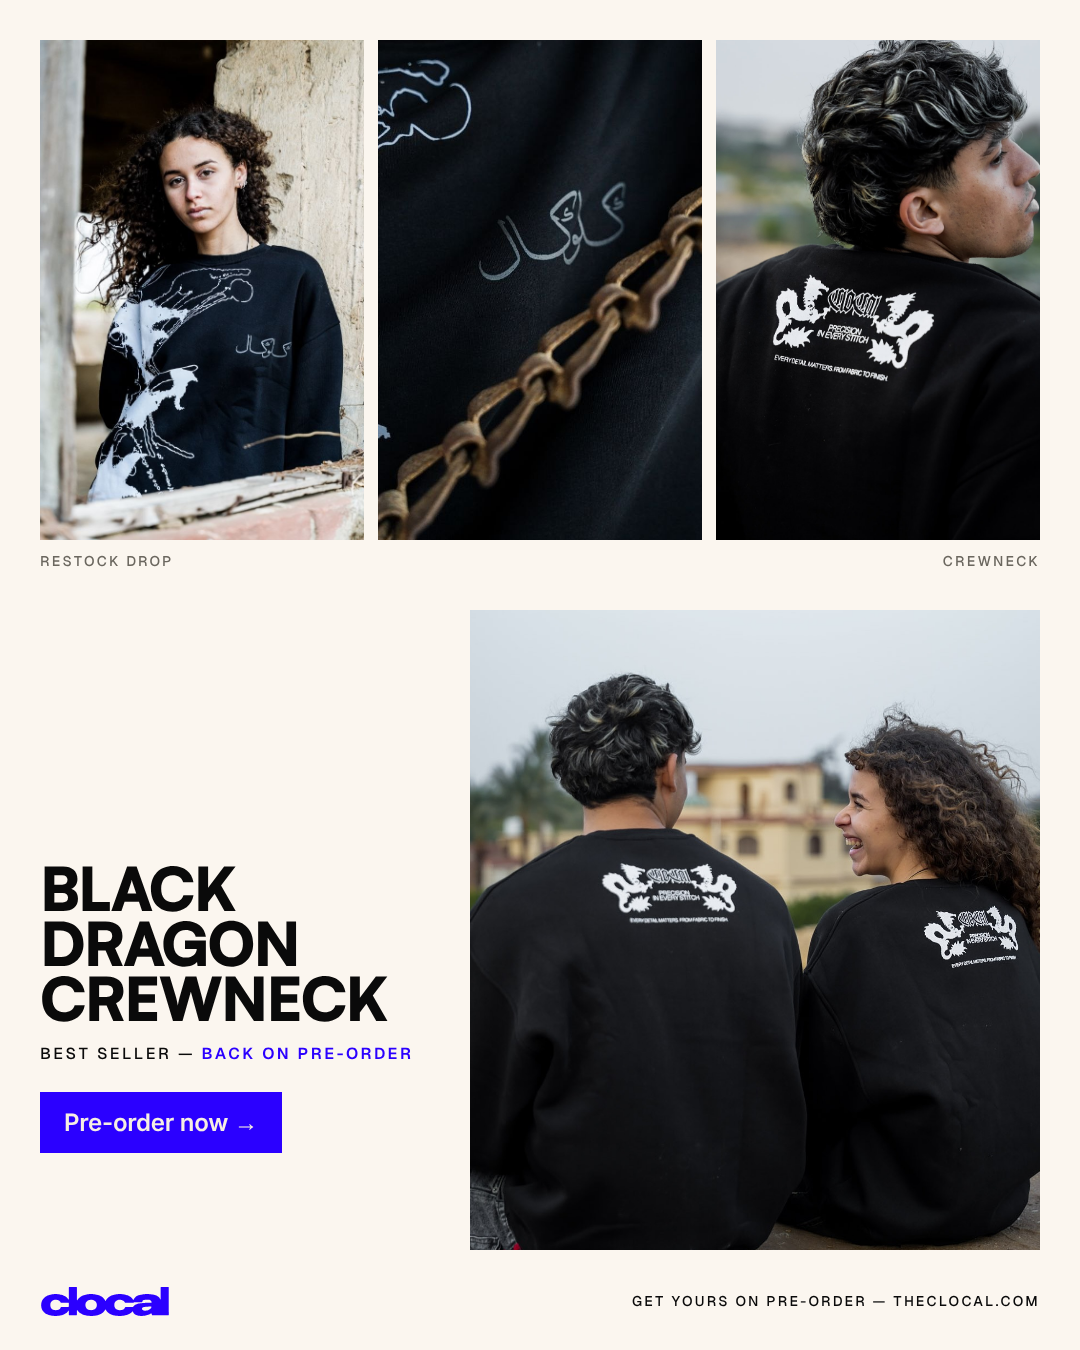
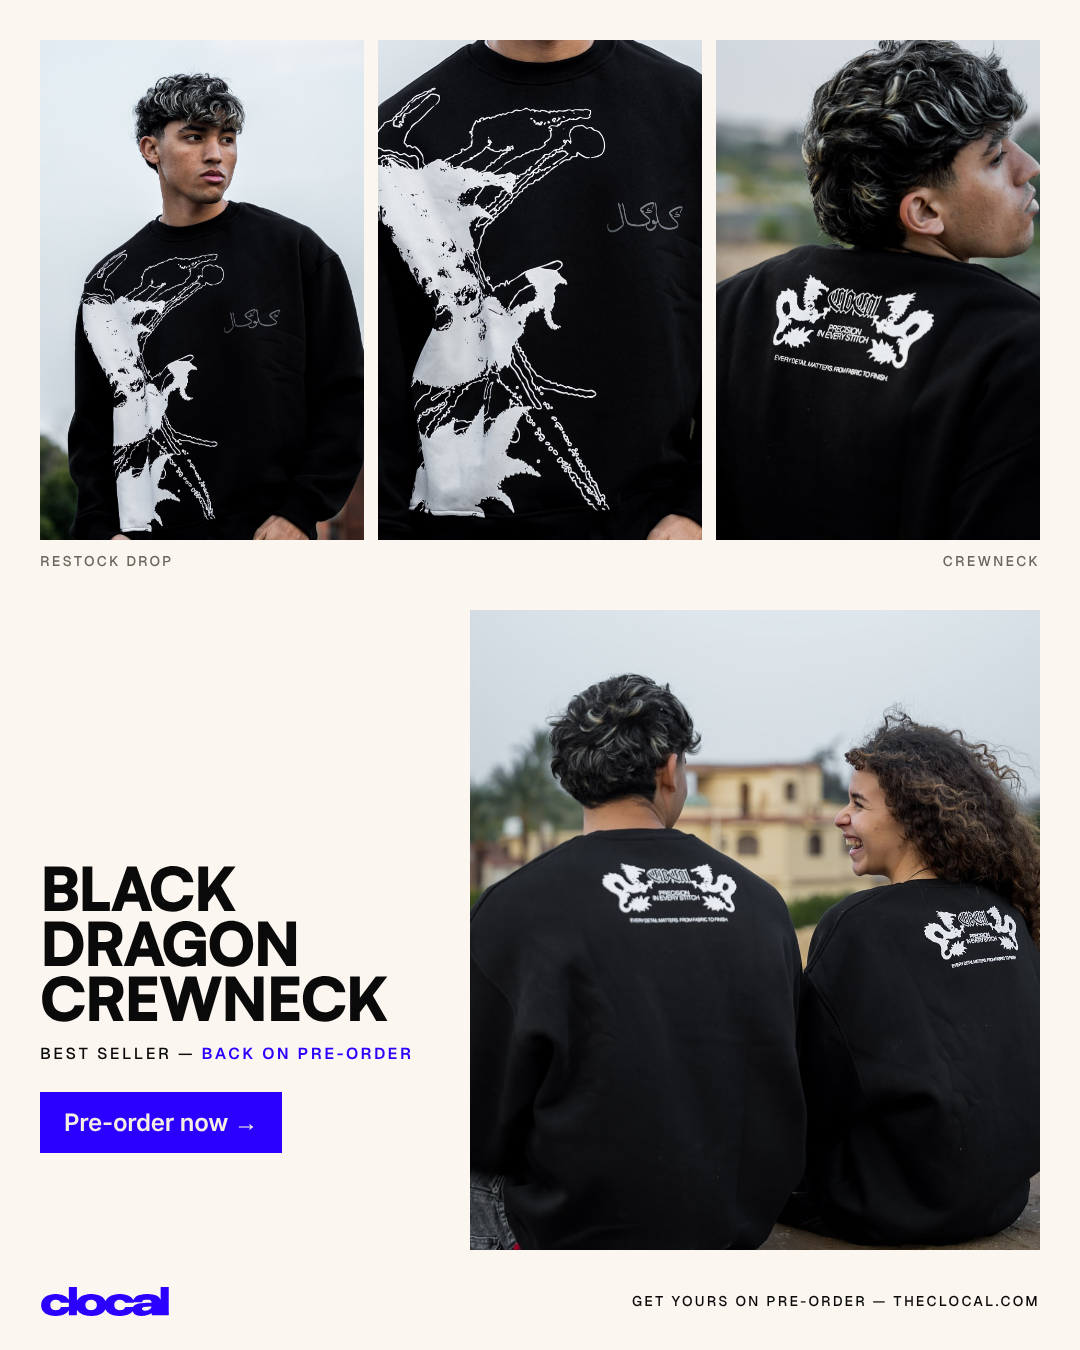
AD15: use one consistent rooftop photo set (front, detail, back, duo)
Claude-Session: https://claude.ai/code/session_0134z9woteaCD6XRmPMXin1q

Changed region(s): [[0.0306, 0.0311, 0.6722, 0.4044], [0.5806, 0.0311, 0.6722, 0.0622]]

diff --git a/clocal-black-dragon-ads/src/ad15-grid-duo_4x5.html b/clocal-black-dragon-ads/src/ad15-grid-duo_4x5.html
@@ -19,8 +19,8 @@
 </style></head>
 <body>
 <div class="ad">
-  <div class="photo tile t1" data-src="photos/carousel/c3.jpg" data-crop="90,170,680"></div>
-  <div class="photo tile t2" data-src="photos/carousel/c6.jpg" data-crop="220,330,560"></div>
+  <div class="photo tile t1" data-src="photos/p18_man_lookaway_rooftop.jpg" data-crop="300,560,1080"></div>
+  <div class="photo tile t2" data-src="photos/p17_man_front_rooftop.jpg" data-crop="560,1080,620"></div>
   <div class="photo tile t3" data-src="photos/p05_man_back_sky.jpg" data-crop="250,80,900"></div>
   <span class="label cap c1">Restock drop</span>
   <span class="label cap c2">Crewneck</span>
